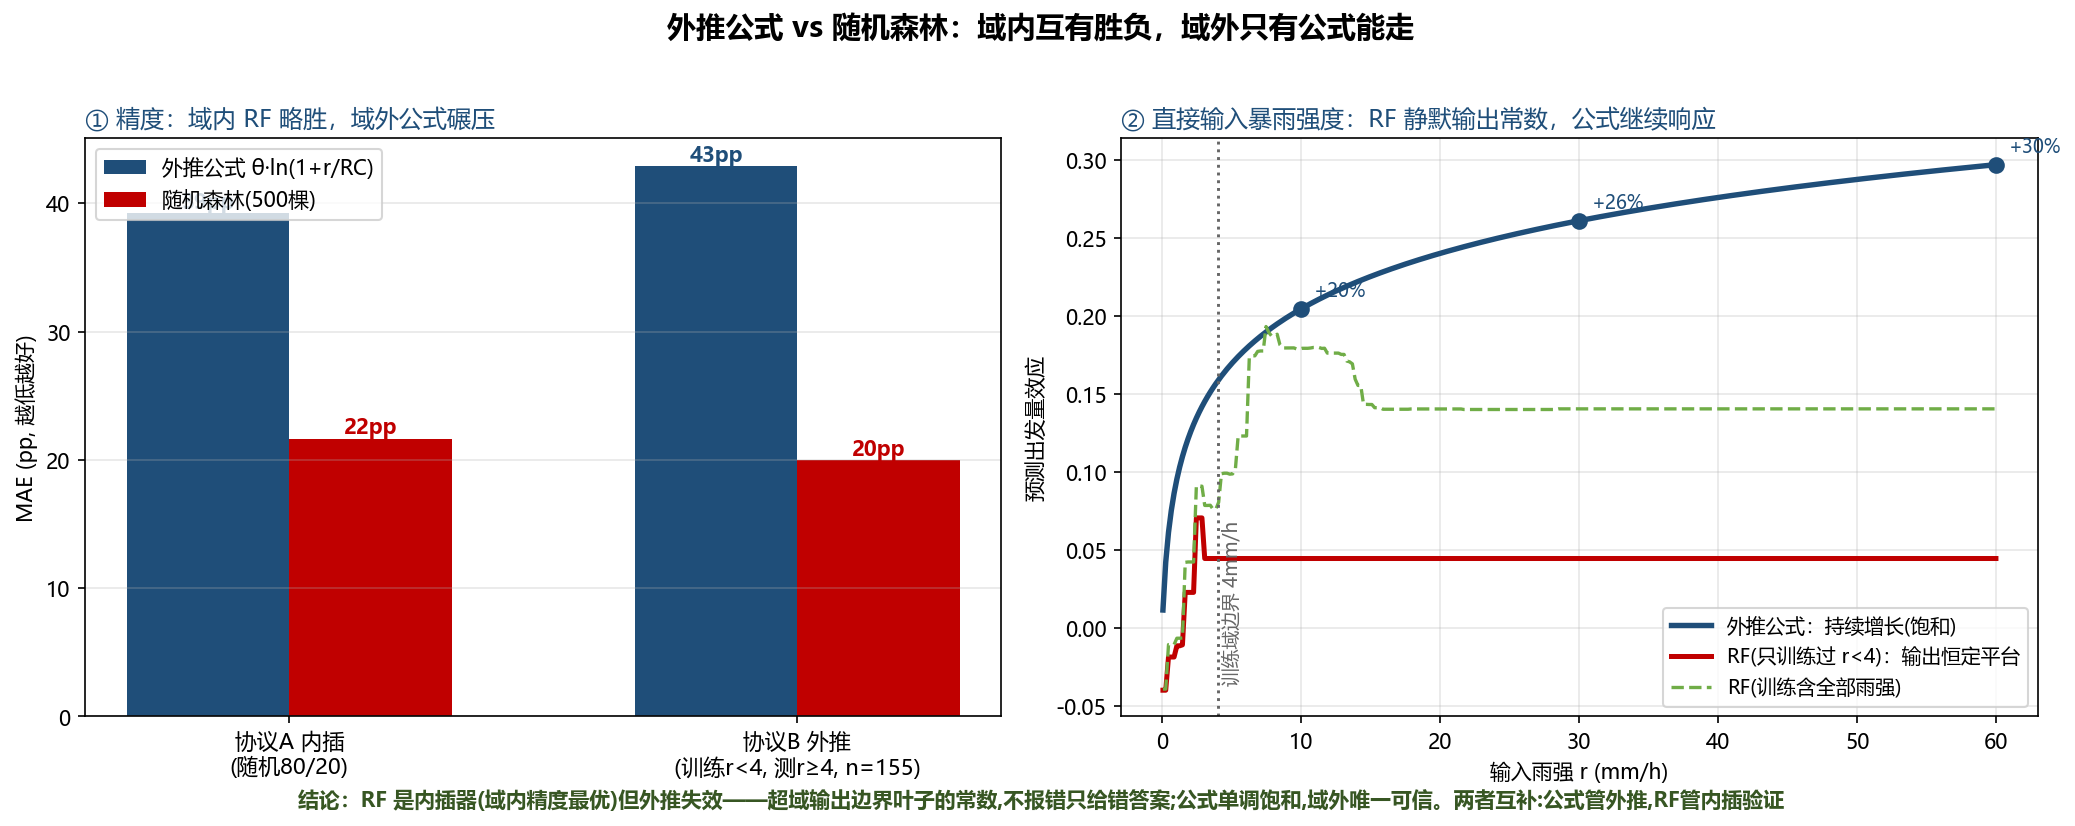
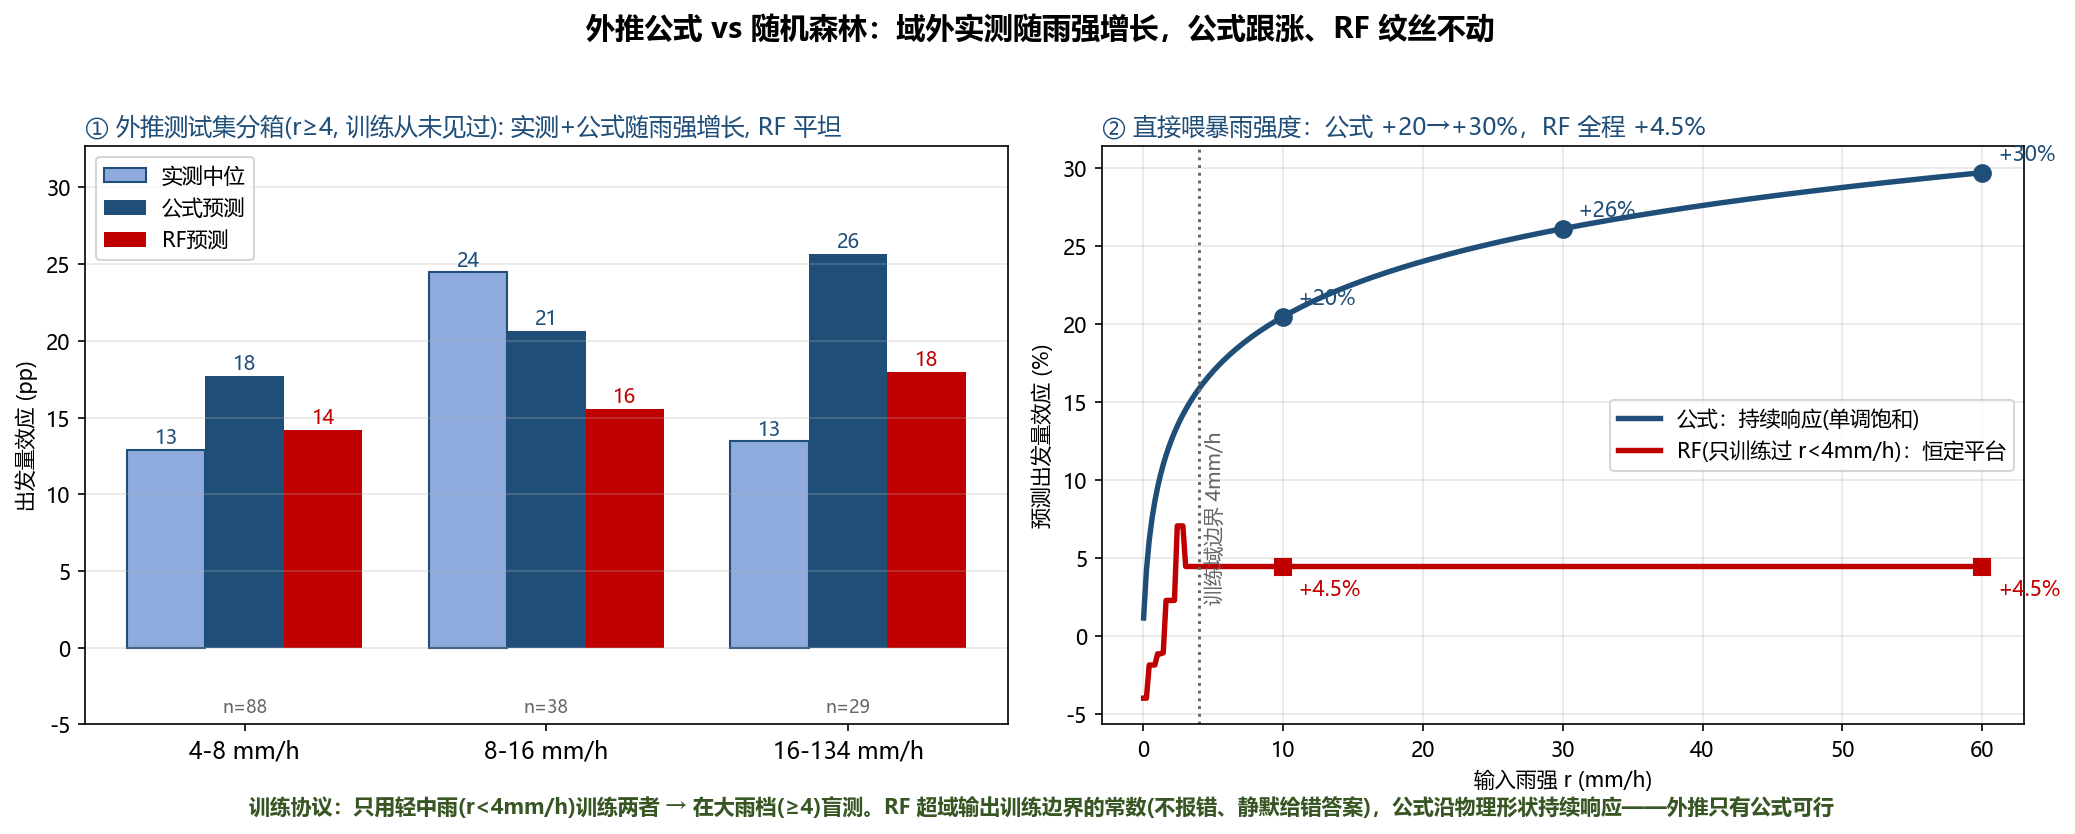
外推vs随机森林图改版：去掉误导性MAE柱图，两面板（分箱趋势+直接输入演示），RF只留一条受限训练线消除歧义

diff --git a/validate_35_extrap_vs_rf.py b/validate_35_extrap_vs_rf.py
@@ -108,21 +108,26 @@ print(f'\n直接输入演示(训练只见过 r<4 的 RF): r=10 → {rf_curve(rfB
       f' | r=60 → {rf_curve(rfB, np.array([60.0]))[0]:+.3f}   ← 输出几乎恒定(平台 {plat:+.3f})')
 print(f'公式对比: r=10 → {formula(np.array([10.0]))[0]:+.3f} | r=30 → {formula(np.array([30.0]))[0]:+.3f} | r=60 → {formula(np.array([60.0]))[0]:+.3f}   ← 持续增长')
 
+BIN_LO = [(4, 8), (8, 16), (16, 1e9)]
+BIN_ACT, BIN_F, BIN_RF, BIN_N, BIN_LBL = [], [], [], [], []
 # ---- 协议B 核心评价: 分箱趋势(外推的本质=预测是否随 r 响应) ----
 print()
 print('外推测试集分箱趋势(r≥4mm/h, 训练从未见过):')
 print(f'{"箱":12s}{"实测中位":>10s}{"公式预测":>10s}{"RF预测":>10s}')
-bins_t = [(4, 8), (8, 16), (16, 1e9)]
-trend = {'act': [], 'f': [], 'rf': []}
-for lo, hi in bins_t:
+for lo, hi in BIN_LO:
     m = (r_te >= lo) & (r_te < hi)
     if m.sum() < 10: continue
     a = float(np.median(y_te[m])); f_ = float(np.median(formula(r_te[m]))); rf_ = float(np.median(rfB.predict(X_te[m])))
-    trend['act'].append(a); trend['f'].append(f_); trend['rf'].append(rf_)
+    BIN_ACT.append(a); BIN_F.append(f_); BIN_RF.append(rf_); BIN_N.append(int(m.sum()))
+    BIN_LBL.append(f"{lo:.0f}-{hi if hi < 1e8 else 134:.0f}")
     print(f'{f"{lo:.0f}-{hi:.0f}":12s}{a*100:9.1f}pp{f_*100:9.1f}pp{rf_*100:9.1f}pp   (n={m.sum()})')
+# 猜常数基线(永远预测训练集均值)
+const_mae = np.mean(np.abs(y_te - y_tr.mean()))
+print('')
+print(f'猜常数基线(永远答训练集均值 {y_tr.mean()*100:+.1f}pp): MAE={const_mae*100:.1f}pp   ← RF 的 {mB_r[0]*100:.1f}pp 并不比它好, MAE 优势是假象')
 # 趋势斜率(响应是否随 r 增长)
 gx = np.log(r_te[np.isfinite(np.log(r_te))])
-sl_act = np.polyfit(gx, y_te, 1)[0] if len(trend['act']) >= 2 else np.nan
+sl_act = np.polyfit(gx, y_te, 1)[0]
 sl_f = np.polyfit(gx, formula(r_te), 1)[0]
 sl_rf = np.polyfit(gx, rfB.predict(X_te), 1)[0]
 print('')
@@ -131,36 +136,44 @@ print('注: 逐点 MAE 的小时级自然波动底噪约 ±40pp, 协议B 的 MAE
 
 # ================= 图 =================
 fig, axes = plt.subplots(1, 2, figsize=(14, 5.2))
-fig.suptitle('外推公式 vs 随机森林：域内互有胜负，域外只有公式能走', fontsize=14, fontweight='bold', y=1.02)
+fig.suptitle('外推公式 vs 随机森林：域外实测随雨强增长，公式跟涨、RF 纹丝不动', fontsize=14, fontweight='bold', y=1.03)
 
+# ① 外推分箱趋势(核心检验)
 ax = axes[0]
-xpos = np.arange(2); bw = 0.32
-mae_f = [mA_f[0] * 100, mB_f[0] * 100]; mae_r = [mA_r[0] * 100, mB_r[0] * 100]
-ax.bar(xpos - bw / 2, mae_f, bw, color=NAVY, label='外推公式 θ·ln(1+r/RC)')
-ax.bar(xpos + bw / 2, mae_r, bw, color=RED, label='随机森林(500棵)')
-for xx, vv in zip(xpos - bw / 2, mae_f): ax.annotate(f'{vv:.0f}pp', (xx, vv), ha='center', va='bottom', fontsize=10, color=NAVY, fontweight='bold')
-for xx, vv in zip(xpos + bw / 2, mae_r): ax.annotate(f'{vv:.0f}pp', (xx, vv), ha='center', va='bottom', fontsize=10, color=RED, fontweight='bold')
-ax.set_xticks(xpos); ax.set_xticklabels(['协议A 内插\n(随机80/20)', f'协议B 外推\n(训练r<4, 测r≥4, n={m_hi.sum()})'], fontsize=10.5)
-ax.set_ylabel('MAE (pp, 越低越好)'); ax.legend(fontsize=10, loc='upper left')
-ax.set_title('① 精度：域内 RF 略胜，域外公式碾压', fontsize=11.5, loc='left', color=NAVY)
-ax.grid(alpha=0.3, axis='y')
+xb = np.arange(len(BIN_LBL)); bw2 = 0.26
+ax.bar(xb - bw2, np.array(BIN_ACT) * 100, bw2, color='#8FAADC', edgecolor=NAVY, label='实测中位')
+ax.bar(xb, np.array(BIN_F) * 100, bw2, color=NAVY, label='公式预测')
+ax.bar(xb + bw2, np.array(BIN_RF) * 100, bw2, color=RED, label='RF预测')
+for k5 in range(len(BIN_LBL)):
+    ax.annotate(f'{BIN_ACT[k5]*100:.0f}', (xb[k5] - bw2, BIN_ACT[k5] * 100 + 0.4), ha='center', fontsize=9.5, color=NAVY)
+    ax.annotate(f'{BIN_F[k5]*100:.0f}', (xb[k5], BIN_F[k5] * 100 + 0.4), ha='center', fontsize=9.5, color=NAVY)
+    ax.annotate(f'{BIN_RF[k5]*100:.0f}', (xb[k5] + bw2, BIN_RF[k5] * 100 + 0.4), ha='center', fontsize=9.5, color=RED)
+    ax.text(xb[k5], -4.2, f'n={BIN_N[k5]}', ha='center', fontsize=8.5, color=MUTED)
+ax.set_xticks(xb); ax.set_xticklabels([f'{b} mm/h' for b in BIN_LBL], fontsize=11)
+ax.set_ylabel('出发量效应 (pp)'); ax.legend(fontsize=10, loc='upper left')
+ax.set_title('① 外推测试集分箱(r≥4, 训练从未见过): 实测+公式随雨强增长, RF 平坦', fontsize=11.5, loc='left', color=NAVY)
+ax.grid(alpha=0.3, axis='y'); ax.set_ylim(-5, max(np.array(BIN_ACT).max(), np.array(BIN_F).max()) * 100 + 7)
 
+# ② 直接输入演示(只留两条主线: 公式 vs 只见过r<4的RF)
 ax = axes[1]
-ax.plot(rr, formula(rr), lw=2.6, color=NAVY, label='外推公式：持续增长(饱和)')
-ax.plot(rr, rf_out_B, lw=2.4, color=RED, label='RF(只训练过 r<4)：输出恒定平台')
-ax.plot(rr, rf_out_A, lw=1.6, color=GRN, ls='--', label='RF(训练含全部雨强)')
+ax.plot(rr, formula(rr) * 100, lw=2.6, color=NAVY, label='公式：持续响应(单调饱和)')
+ax.plot(rr, rf_out_B * 100, lw=2.6, color=RED, label='RF(只训练过 r<4mm/h)：恒定平台')
 ax.axvline(4, color=MUTED, ls=':', lw=1.4)
-ax.text(4.3, ax.get_ylim()[0] + 0.02, '训练域边界 4mm/h', fontsize=9, color=MUTED, rotation=90, va='bottom')
+ax.text(4.4, 2, '训练域边界 4mm/h', fontsize=9.5, color=MUTED, rotation=90, va='bottom')
 for r_pt in [10, 30, 60]:
-    ax.plot([r_pt], [formula(np.array([r_pt]))[0]], 'o', ms=7, color=NAVY, zorder=5)
-    ax.annotate(f'+{formula(np.array([r_pt]))[0]*100:.0f}%', (r_pt, formula(np.array([r_pt]))[0]),
-                textcoords='offset points', xytext=(6, 6), fontsize=9, color=NAVY)
-ax.set_xlabel('输入雨强 r (mm/h)'); ax.set_ylabel('预测出发量效应')
-ax.set_title('② 直接输入暴雨强度：RF 静默输出常数，公式继续响应', fontsize=11.5, loc='left', color=NAVY)
-ax.legend(fontsize=9.5, loc='lower right'); ax.grid(alpha=0.3)
+    pv = formula(np.array([r_pt]))[0] * 100
+    ax.plot([r_pt], [pv], 'o', ms=8, color=NAVY, zorder=6)
+    ax.annotate(f'+{pv:.0f}%', (r_pt, pv), textcoords='offset points', xytext=(7, 6), fontsize=10, color=NAVY)
+for r_pt in [10, 60]:
+    pv = rf_curve(rfB, np.array([float(r_pt)]))[0] * 100
+    ax.plot([r_pt], [pv], 's', ms=8, color=RED, zorder=6)
+    ax.annotate(f'+{pv:.1f}%', (r_pt, pv), textcoords='offset points', xytext=(7, -14), fontsize=10, color=RED)
+ax.set_xlabel('输入雨强 r (mm/h)'); ax.set_ylabel('预测出发量效应 (%)')
+ax.set_title('② 直接喂暴雨强度：公式 +20→+30%，RF 全程 +4.5%', fontsize=11.5, loc='left', color=NAVY)
+ax.legend(fontsize=10, loc='center right'); ax.grid(alpha=0.3)
 
 fig.text(0.5, 0.005,
-         '结论：RF 是内插器(域内精度最优)但外推失效——超域输出边界叶子的常数,不报错只给错答案;公式单调饱和,域外唯一可信。两者互补:公式管外推,RF管内插验证',
+         '训练协议：只用轻中雨(r<4mm/h)训练两者 → 在大雨档(≥4)盲测。RF 超域输出训练边界的常数(不报错、静默给错答案)，公式沿物理形状持续响应——外推只有公式可行',
          ha='center', fontsize=10, color=DGREEN, fontweight='bold', wrap=True)
 plt.tight_layout()
 fig.savefig(r'D:/AI/条件转化/外推vs随机森林.png', dpi=150, bbox_inches='tight', facecolor='white')
